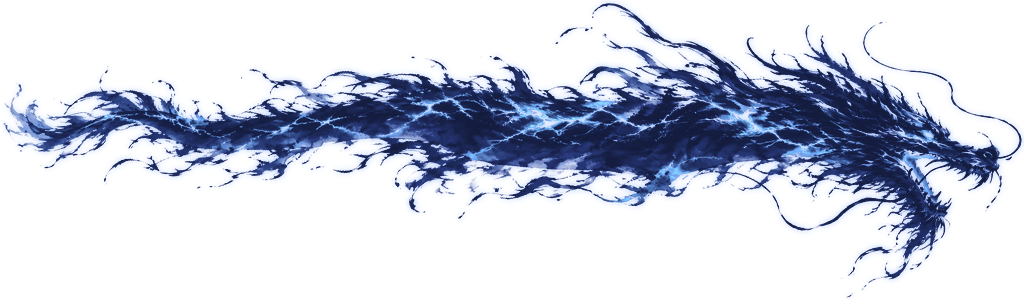
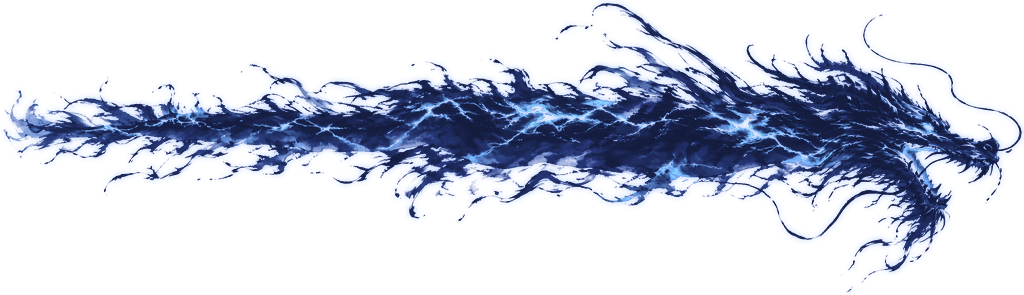
vfx-lab: Khí Long — duỗi thẳng hoàn toàn ảnh rồng mẫu, để code lo phần uốn lượn
Claude-Session: https://claude.ai/code/session_014A94BHnyL4tu48AS77QbVM

diff --git a/src/vfxlab/main.ts b/src/vfxlab/main.ts
@@ -37,7 +37,7 @@ class LabScene extends Phaser.Scene {
     this.load.spritesheet('hero', '/ui/hero_b_walk.png', { frameWidth: 52, frameHeight: 68 });
     this.load.image(QI_SWORD, '/vfx/qi_sword_light.png');
     for (const [key, f] of [[SHOCK_T3, 'shock_t3'], [SHOCK_T6, 'shock_t6']]) this.load.spritesheet(key, `/vfx/${f}.png?v=1`, { frameWidth: 256, frameHeight: 159 });
-    for (const [n, key] of Object.entries(DRAGON_TEX)) for (const sf of ['', '_aw']) this.load.image(key + sf, `/vfx/dragon_${n}${sf}.png?v=3`);
+    for (const [n, key] of Object.entries(DRAGON_TEX)) for (const sf of ['', '_aw']) this.load.image(key + sf, `/vfx/dragon_${n}${sf}.png?v=4`);
     this.load.image(ORB_BOLT, '/vfx/orb_bolt.png?v=1');
     this.load.spritesheet(SPIRIT_ORB, '/vfx/spirit_orb.png?v=1', { frameWidth: 96, frameHeight: 96 });
     for (const [n, key] of Object.entries(BURN_TEX)) this.load.spritesheet(key, `/vfx/burn_${n}.png?v=2`, { frameWidth: 256, frameHeight: 201 });

diff --git a/tools/art/dragon_rope.py b/tools/art/dragon_rope.py
@@ -35,17 +35,21 @@ def main():
     alpha = np.clip((238 - lum) / 125, 0, 1)
     alpha = np.maximum(alpha, np.clip((sat - 30) / 70, 0, 1) * (lum < 248))
     h, w = alpha.shape
-    # ---- căn thẳng
+    # ---- duỗi thẳng HOÀN TOÀN: tâm thân mỗi cột = trọng tâm phần mực ĐẶC (bỏ râu/tua mảnh để tâm không bị kéo lệch),
+    #      làm mượt nhẹ (chỉ bỏ nhiễu, KHÔNG giữ độ uốn) → dời từng cột về giữa. Uốn lượn để code trong game lo.
     yy = np.arange(h)[:, None]
-    wsum = alpha.sum(0)
-    cen = (alpha * yy).sum(0) / np.maximum(wsum, 1e-3)
+    core = np.clip((alpha - 0.45) / 0.4, 0, 1) ** 2
+    wsum = core.sum(0)
+    cen = (core * yy).sum(0) / np.maximum(wsum, 1e-3)
     idx = np.arange(w)
-    good = wsum > 8
+    good = wsum > 20
     cen = np.interp(idx, idx[good], cen[good])
-    k = 301
+    k = 81
     cen = np.convolve(np.pad(cen, k // 2, mode='edge'), np.ones(k) / k, mode='valid')
-    head0 = int(w * 0.8)
-    cen[head0:] = cen[head0]                                                # đầu: không dời
+    # đầu rồng (từ cổ trở đi) dời nguyên khối theo tâm ở cổ để đầu không bị méo; chuyển tiếp mượt qua 80px
+    head0 = int(w * 0.84)
+    t = np.clip((idx - (head0 - 80)) / 80, 0, 1)
+    cen = cen * (1 - t) + cen[head0] * t
     shift = cen - h / 2
     out = np.zeros((h, w, 4))
     for x in range(w):
